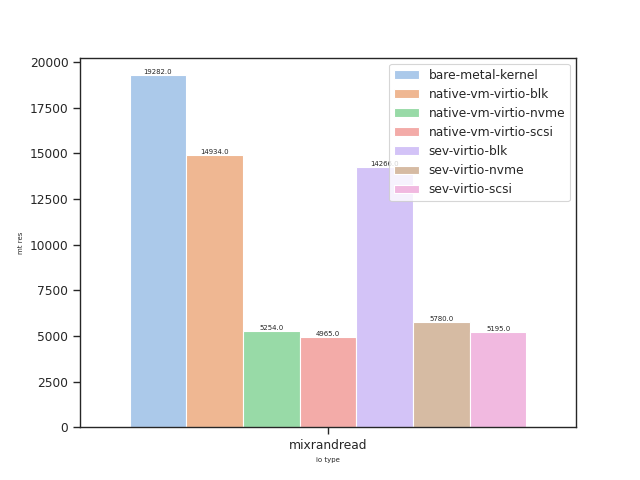
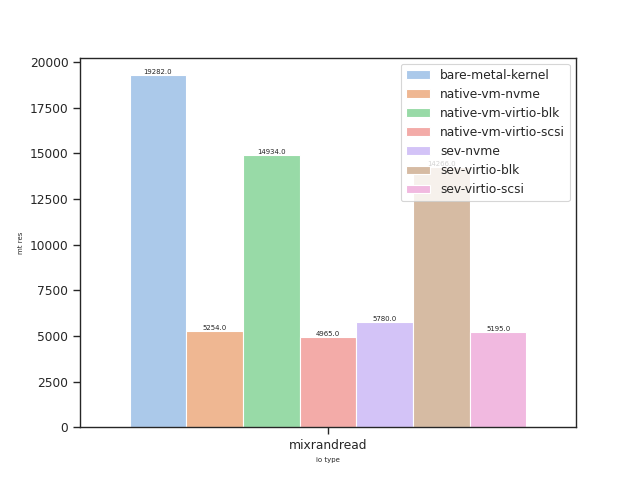
--wip-- [skip ci]

Changed region(s): [[0.5312, 0.125, 0.875, 0.6875], [0.2812, 0.3125, 0.4688, 0.7188]]

diff --git a/tools/fio-plotters/src/plot/json_parser.py b/tools/fio-plotters/src/plot/json_parser.py
@@ -13,7 +13,7 @@ ENVS    = [ENV_BM, ENV_VM, ENV_SEV]
 DEV_KERNEL      = 'kernel'
 DEV_VIRTIO_BLK  = 'virtio-blk'
 DEV_VIRTIO_SCSI = 'virtio-scsi'
-DEV_VIRTIO_NVME = 'virtio-nvme'
+DEV_VIRTIO_NVME = 'nvme'
 DEVS            = [DEV_KERNEL, DEV_VIRTIO_BLK, DEV_VIRTIO_SCSI, DEV_VIRTIO_NVME]
 
 MT_BW   = 'bw'
